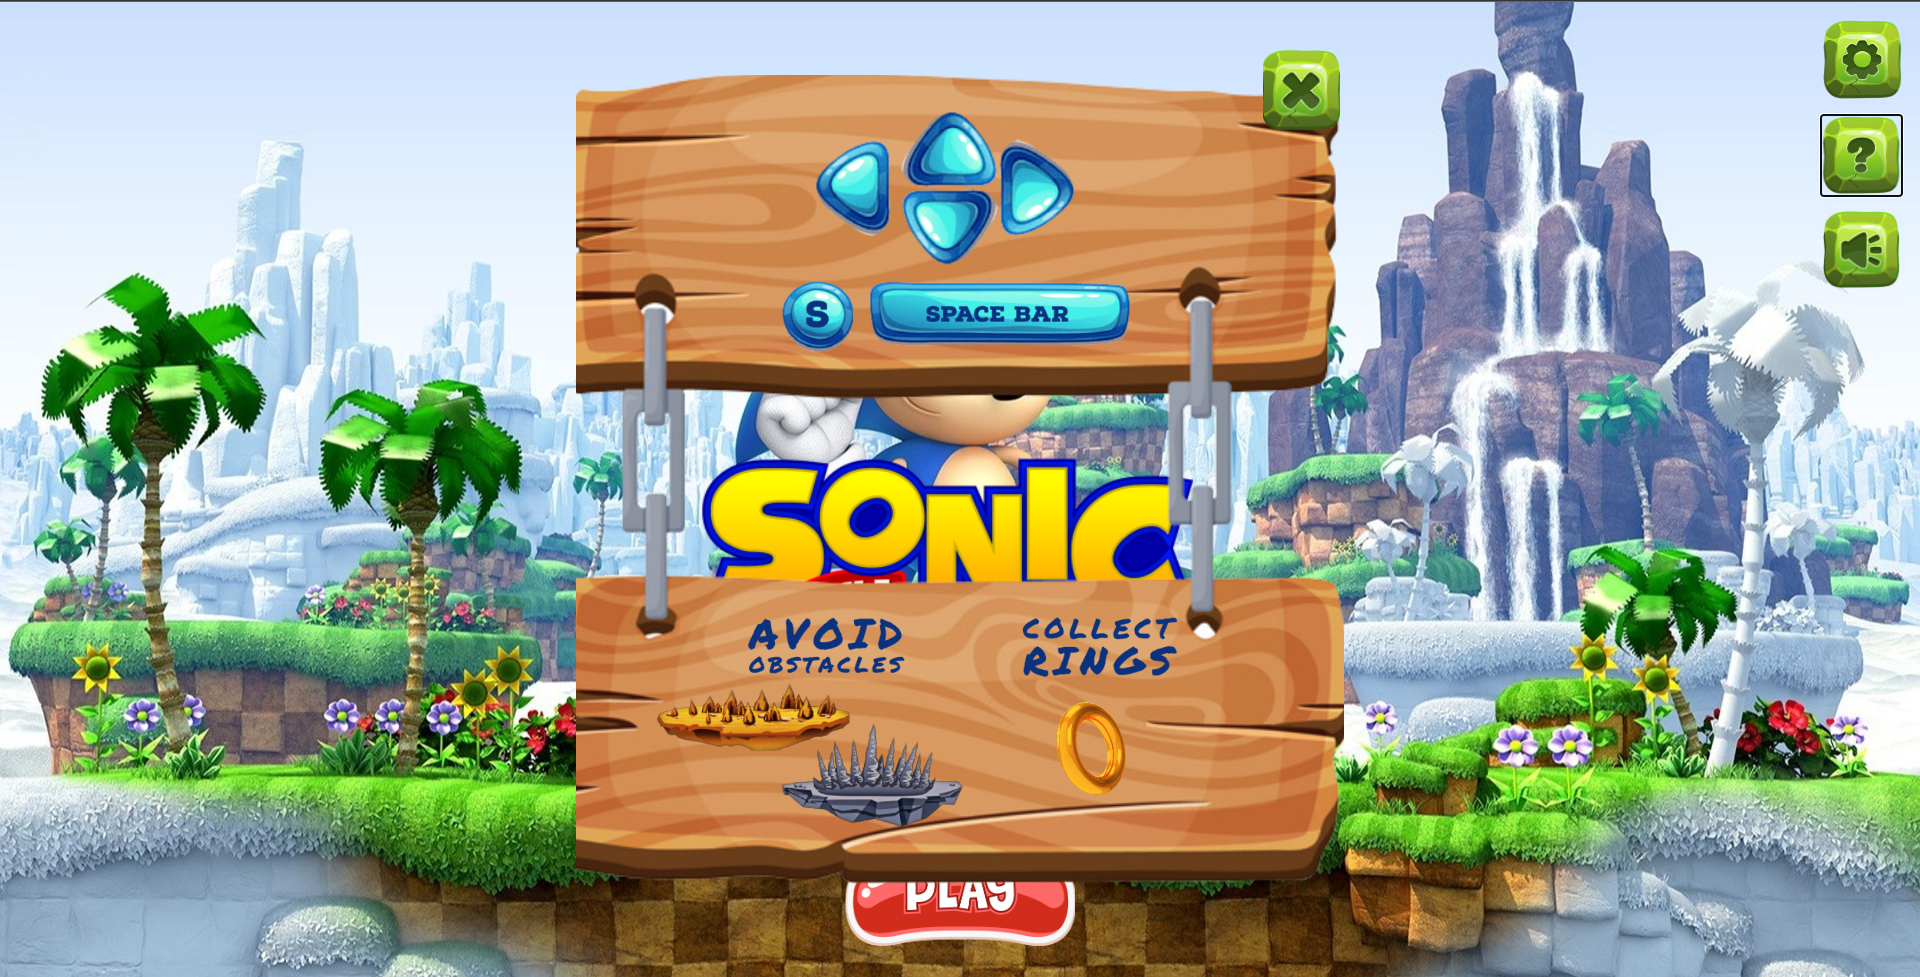
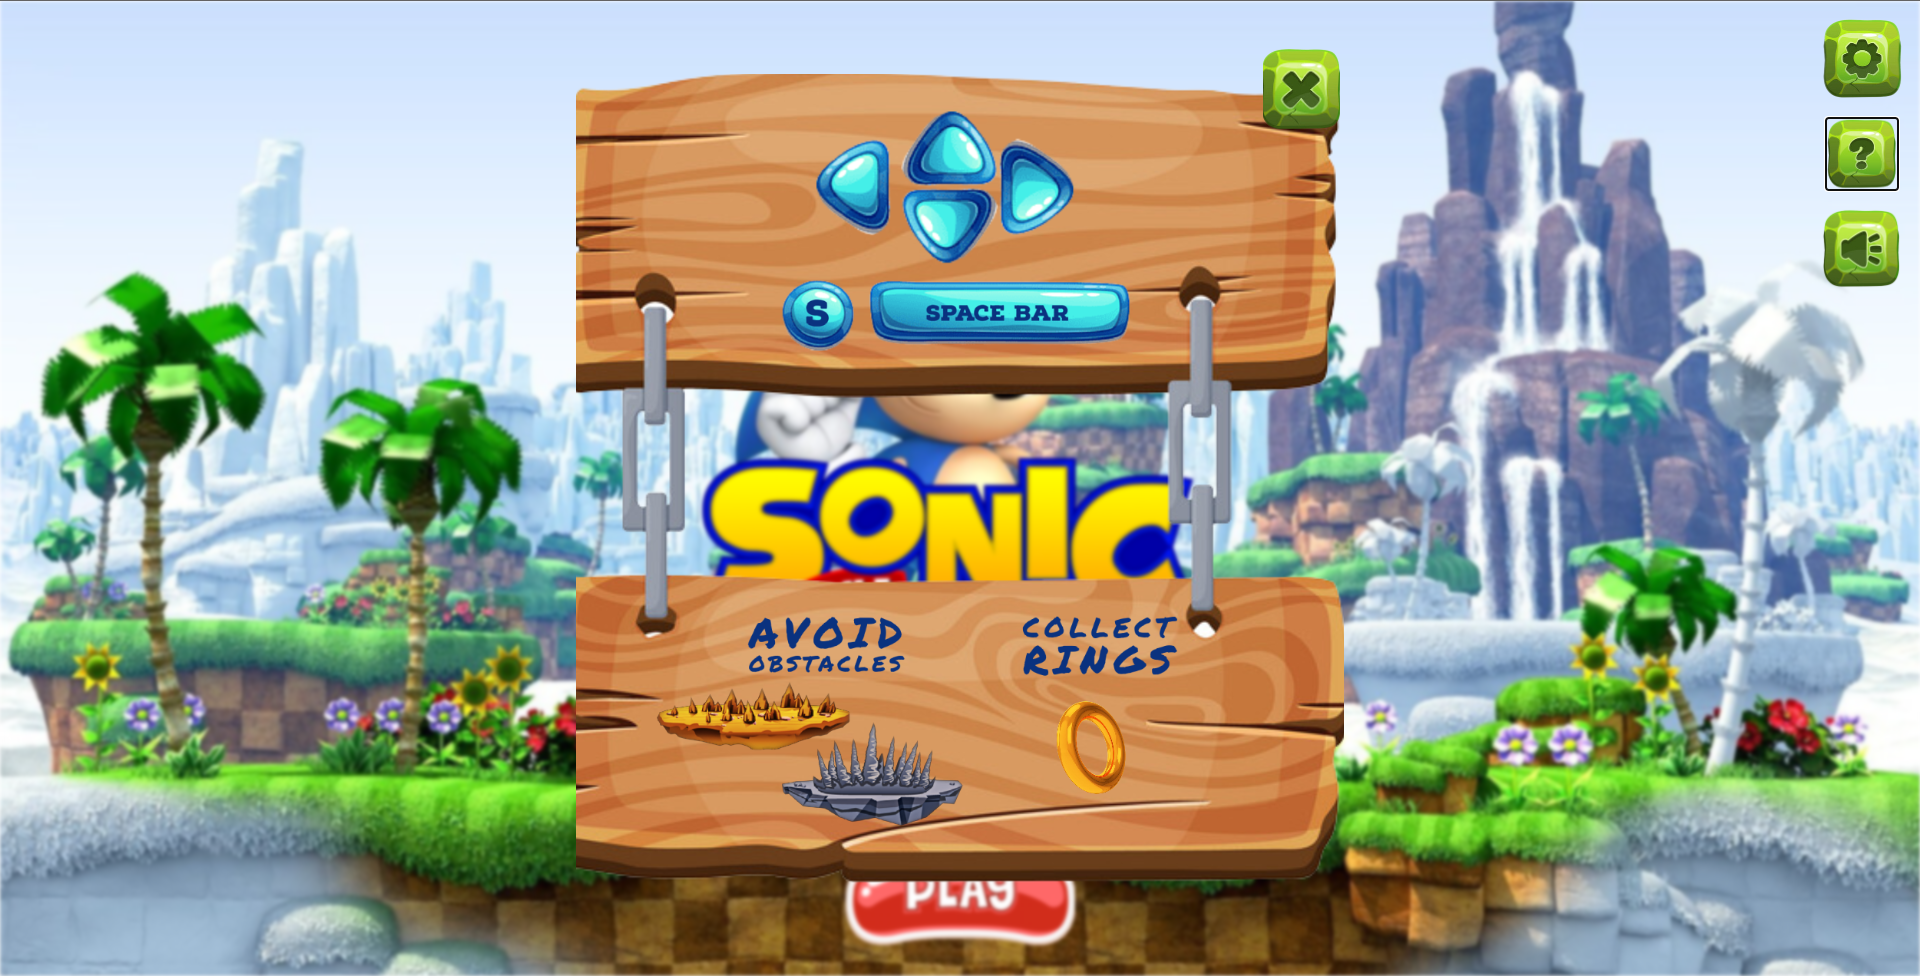
Upated README file

diff --git a/assets/js/home_screen.js b/assets/js/home_screen.js
@@ -22,12 +22,14 @@ $("#btnPlay").click(function (e) {
 
 $("#help-icon").click(function (e) {
     $("#help").css("display", "block");
-    $("div#controller-icons>button#help-icon").addClass("pressed");
     $("div#controller-icons>button#help-icon").css("pointer-events", "none");
+    $("#home-bg").addClass("bg-blur");
+    $("div#controller-icons>button#help-icon").addClass("pressed");
 });
 
 $("#btnClose").click(function (e) {
     $("#help").css("display", "none");
-    $("div#controller-icons>button#help-icon").removeClass("pressed");
     $("div#controller-icons>button#help-icon").css("pointer-events", "auto");
+    $("#home-bg").removeClass("bg-blur")
+    $("div#controller-icons>button#help-icon").removeClass("pressed");
 });

diff --git a/index.html b/index.html
@@ -13,13 +13,13 @@
     <section id="home-bg">
         <div id="title-img"></div>
         <button id="btnPlay"></button>
-        <!-- <div ></div> -->
-        <div id="controller-icons">
-            <button id="setting-icon"></button>
-            <button id="help-icon"></button>
-            <button id="sound-icon"></button>
-        </div>
     </section>
+
+    <div id="controller-icons">
+        <button id="setting-icon"></button>
+        <button id="help-icon"></button>
+        <button id="sound-icon"></button>
+    </div>
 
     <section id="help">
         <!-- <div id="btnClose"></div> -->

diff --git a/assets/css/home_screen.css b/assets/css/home_screen.css
@@ -175,3 +175,10 @@ section#help button#btnClose:hover {
     width: 12%;
     height: 12%;
 }
+
+/* ---------------------------------------------------------- */
+
+.bg-blur {
+    filter: blur(8px);
+    -webkit-filter: blur(2px);
+}
